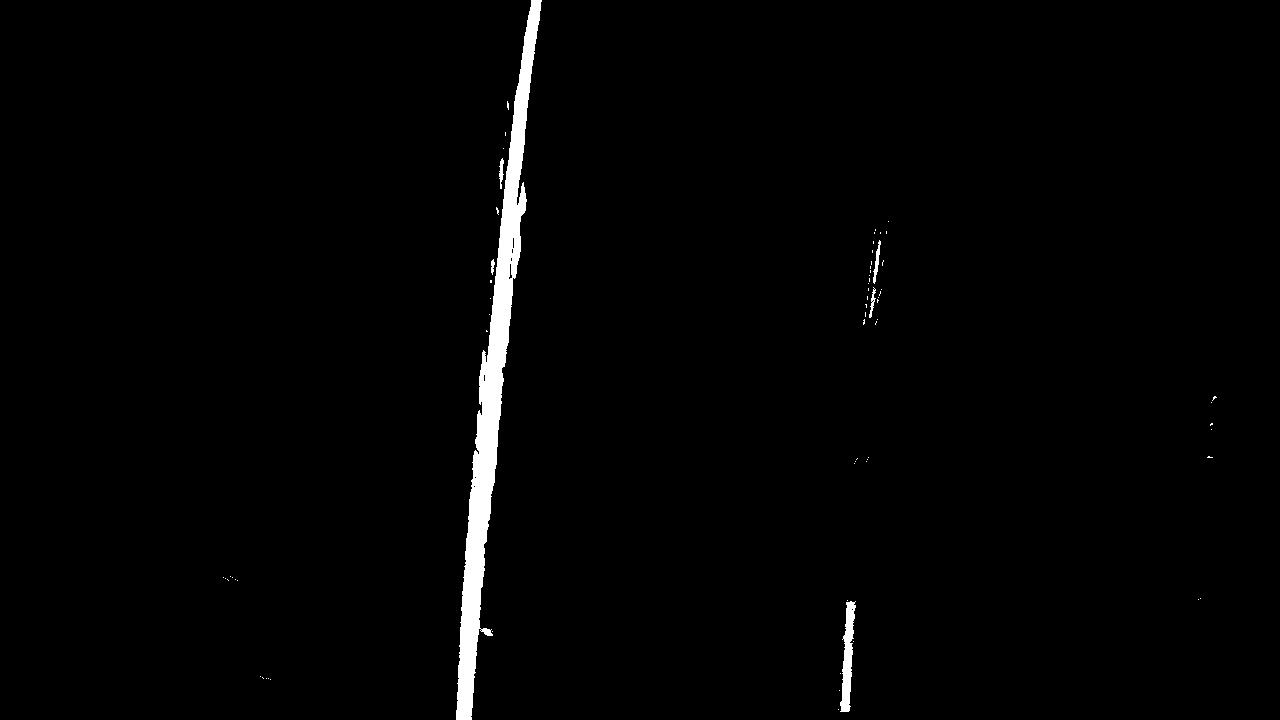
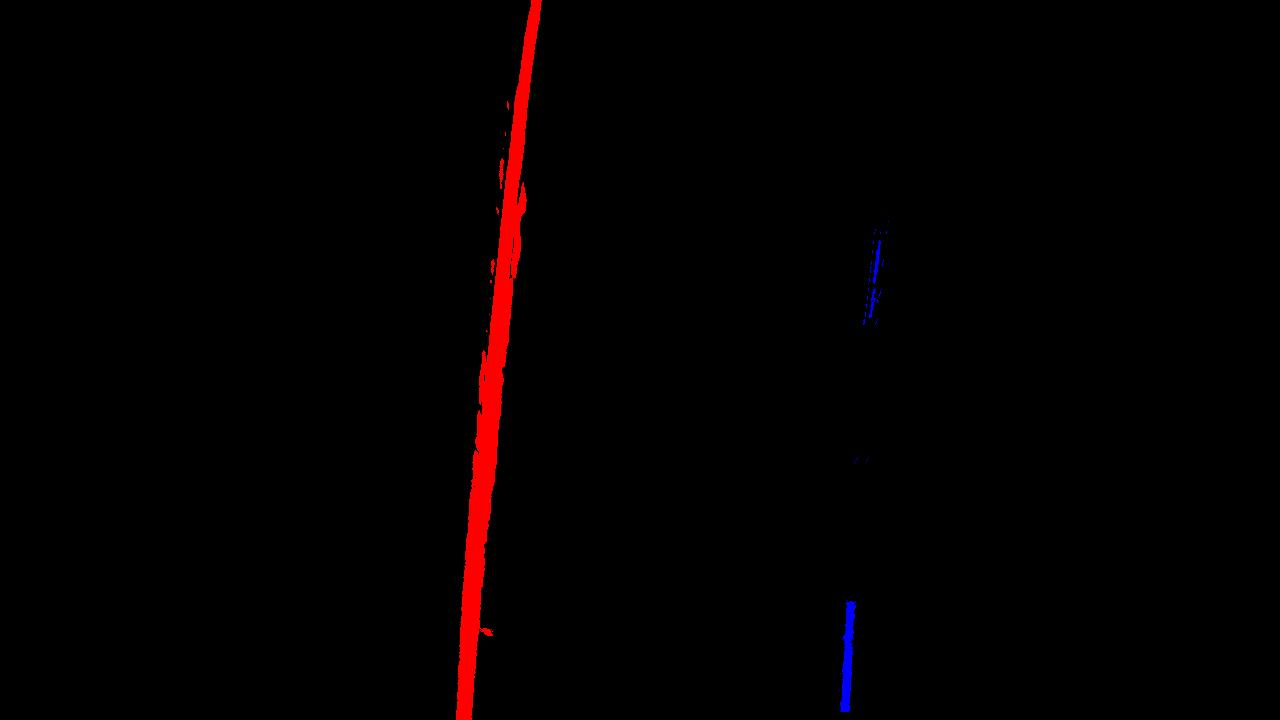
finished basic line finding

Changed region(s): [[0.3438, 0.0, 0.4375, 1.0], [0.6562, 0.825, 0.6875, 1.0], [0.6562, 0.3361, 0.6875, 0.4583]]

diff --git a/src/line_finding.py b/src/line_finding.py
@@ -2,6 +2,9 @@ import numpy as np
 import cv2
 
 def find_lane_pixels(binary_warped):
+    """
+    Find the pixels of left lane and right lane
+    """
     # Take a histogram of the bottom half of the image
     histogram = np.sum(binary_warped[binary_warped.shape[0]//2:,:], axis=0)
 
@@ -75,4 +78,35 @@ def find_lane_pixels(binary_warped):
     righty = nonzeroy[right_lane_inds]
 
     return leftx, lefty, rightx, righty
+
+def fit_polynomial(binary_warped):
+    # Find our lane pixels first
+    leftx, lefty, rightx, righty = find_lane_pixels(binary_warped)
+
+    # Fit a second order polynomial to each using `np.polyfit`
+    left_fit = np.polyfit(lefty, leftx, 2)
+    right_fit = np.polyfit(righty, rightx, 2)
+
+    # Generate x and y values for plotting
+    ploty = np.linspace(0, binary_warped.shape[0]-1, binary_warped.shape[0] )
+    try:
+        left_fitx = left_fit[0]*ploty**2 + left_fit[1]*ploty + left_fit[2]
+        right_fitx = right_fit[0]*ploty**2 + right_fit[1]*ploty + right_fit[2]
+    except TypeError:
+        # Avoids an error if `left` and `right_fit` are still none or incorrect
+        print('The function failed to fit a line!')
+        left_fitx = 1*ploty**2 + 1*ploty
+        right_fitx = 1*ploty**2 + 1*ploty
+
+    ## Visualization ##
+    # Colors in the left and right lane regions
+    out_img = np.dstack([binary_warped, binary_warped, binary_warped])
+    out_img[lefty, leftx] = [255, 0, 0]
+    out_img[righty, rightx] = [0, 0, 255]
+
+    # Plots the left and right polynomials on the lane lines
+    plt.plot(left_fitx, ploty, color='yellow')
+    plt.plot(right_fitx, ploty, color='yellow')
+
+    return out_img
 

diff --git a/src/image_pipeline.py b/src/image_pipeline.py
@@ -4,6 +4,9 @@ from perspective import unwarp
 from color_grad import color_grad
 import numpy as np
 import os
+from line_finding import fit_polynomial 
+import matplotlib.pyplot as plt
+
 
 def image_pipeline(image):
 
@@ -26,4 +29,4 @@ def image_pipeline(image):
 
     binary = color_grad(warped)
     
-    return binary
+    return fit_polynomial(binary)

diff --git a/src/main.py b/src/main.py
@@ -5,6 +5,8 @@ if __name__ == '__main__':
     test_img = plt.imread("../test_images/test3.jpg")
 
     ans = image_pipeline(test_img)
+    plt.imshow(ans)
+    plt.show()
     plt.imsave("ans.jpg", ans, cmap ='gray')
 
     
